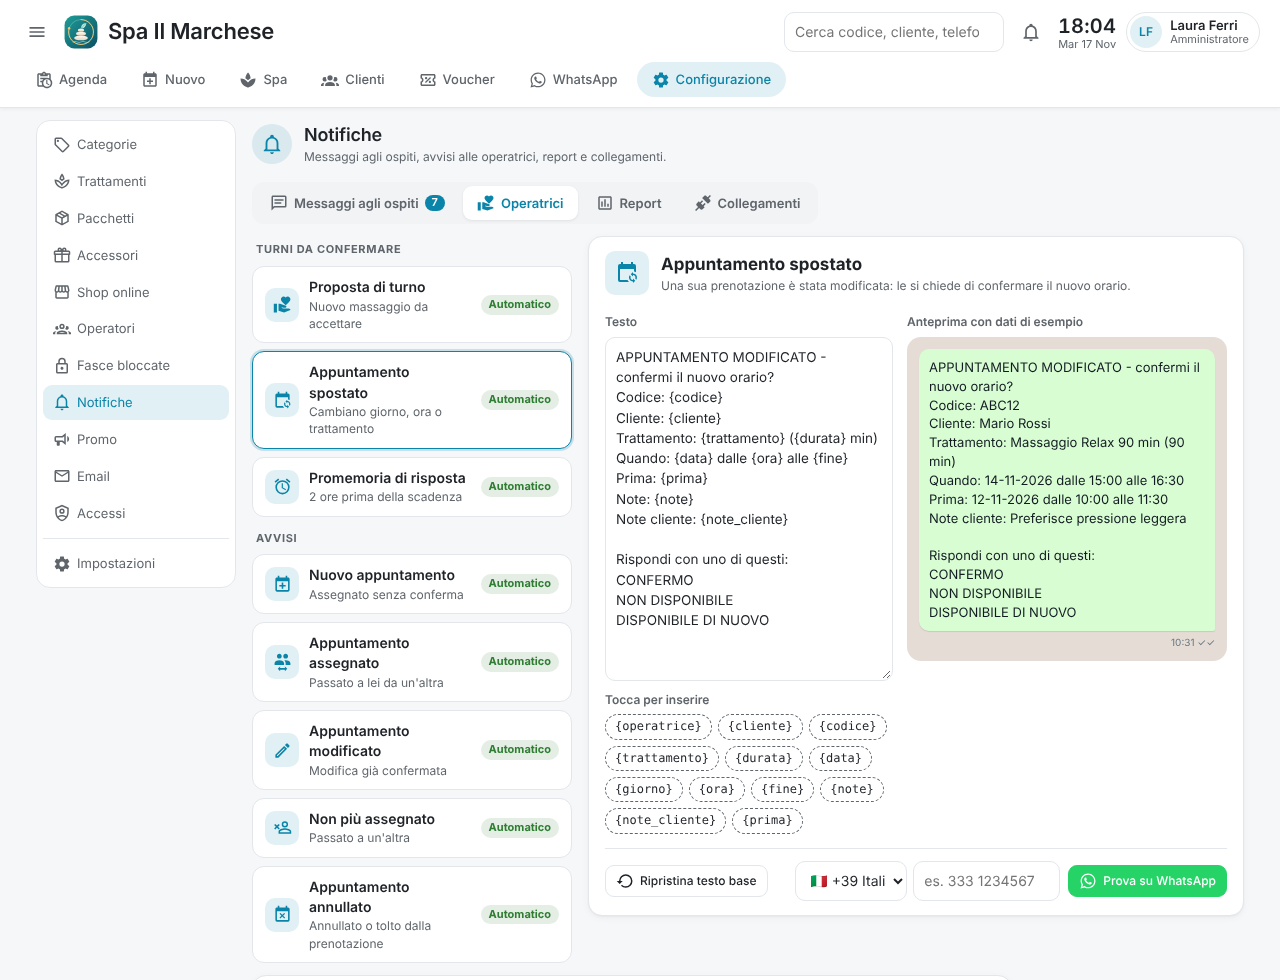
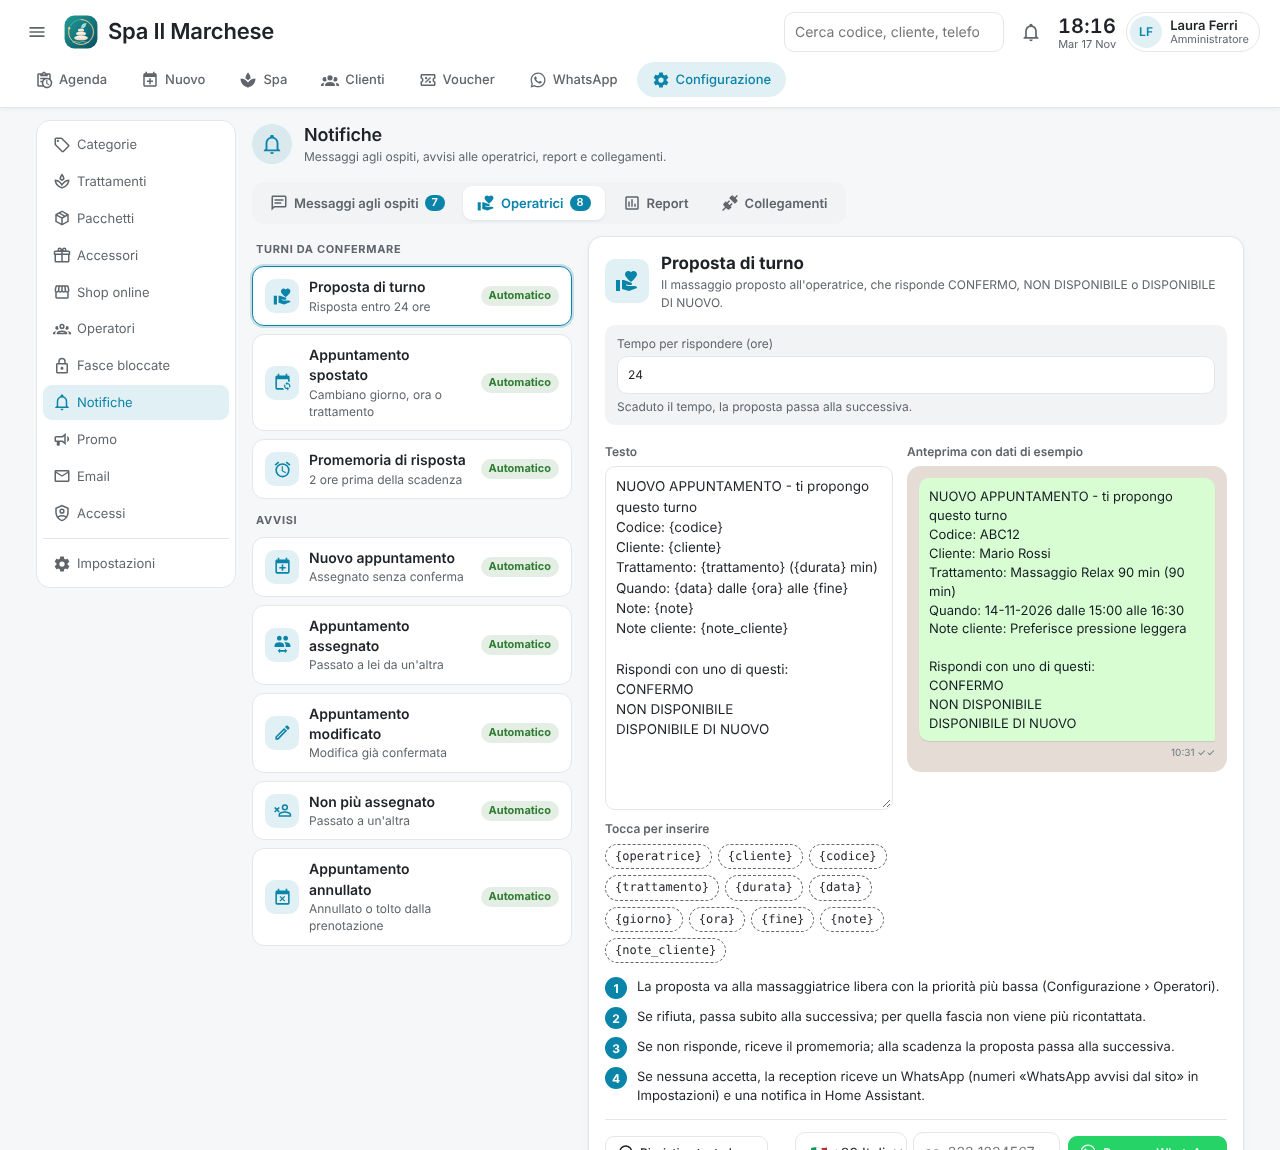
3.15.1: impostazioni delle offerte nei loro messaggi; bot Telegram più robusto (#84)
Il riquadro «Offerte alle massaggiatrici» passa dentro «Proposta di turno»
(tempo per rispondere e passi) e «Promemoria di risposta» (ore). Il bot
Telegram segna un errore solo dopo 3 letture fallite di fila (subito per
conflitto o token non valido), lo spiega in italiano, e la card ne
ricontrolla lo stato ogni 30 secondi.

Claude-Session: https://claude.ai/code/session_01GttFfEWm9aErteTXHjR7ex

diff --git a/custom_components/spa_booking/frontend/spa-booking-card.js b/custom_components/spa_booking/frontend/spa-booking-card.js
@@ -18,7 +18,7 @@
  */
 
 const DOMAIN = "spa_booking";
-const CARD_VERSION = "3.15.0";
+const CARD_VERSION = "3.15.1";
 
 // Window of the "Uscite" panel at the top of the agenda: it opens this many
 // minutes before an appointment ends and lingers this many minutes after,
@@ -206,17 +206,34 @@ const NOTIFY_MESSAGES = [
 const OP_CHIPS = [["{operatrice}", "Nome dell'operatrice"], ["{cliente}", "Nome e cognome del cliente"], ["{codice}", "Codice"],
   ["{trattamento}", "Trattamento"], ["{durata}", "Minuti"], ["{data}", "Giorno 14-11-2026"], ["{giorno}", "Giorno «sabato 14 novembre»"],
   ["{ora}", "Inizio"], ["{fine}", "Fine"], ["{note}", "Note dell'appuntamento"], ["{note_cliente}", "Note del cliente"]];
+// The offer settings sit in the messages they drive (3.15.1).
+const NOTIFY_HOURS = (draft, key, fallback, min, changed) => el("input", {
+  class: "input", type: "number", min: String(min), step: "1", value: draft[key] != null ? draft[key] : fallback,
+  on: { input: (event) => { draft[key] = event.target.value; changed(); } },
+});
 const OPERATOR_MESSAGES = [
   { id: "op_offer", group: "Turni da confermare", icon: "mdi:hand-heart", title: "Proposta di turno", key: "op_offer_message",
-    when: () => "Nuovo massaggio da accettare", auto: () => true,
-    description: "Il massaggio proposto all'operatrice, che risponde CONFERMO, NON DISPONIBILE o DISPONIBILE DI NUOVO.", chips: OP_CHIPS },
+    when: (draft) => `Risposta entro ${draft.offer_timeout_hours != null ? draft.offer_timeout_hours : 24} ore`, auto: () => true,
+    description: "Il massaggio proposto all'operatrice, che risponde CONFERMO, NON DISPONIBILE o DISPONIBILE DI NUOVO.", chips: OP_CHIPS,
+    options: (draft, changed) => [
+      NOTIFY_FIELD("Tempo per rispondere (ore)", NOTIFY_HOURS(draft, "offer_timeout_hours", 24, 1, changed),
+        "Scaduto il tempo, la proposta passa alla successiva."),
+    ],
+    after: () => el("div", { class: "nt-flow" },
+      el("div", { class: "nt-flow-step" }, el("b", {}, "1"), "La proposta va alla massaggiatrice libera con la priorità più bassa (Configurazione › Operatori)."),
+      el("div", { class: "nt-flow-step" }, el("b", {}, "2"), "Se rifiuta, passa subito alla successiva; per quella fascia non viene più ricontattata."),
+      el("div", { class: "nt-flow-step" }, el("b", {}, "3"), "Se non risponde, riceve il promemoria; alla scadenza la proposta passa alla successiva."),
+      el("div", { class: "nt-flow-step" }, el("b", {}, "4"), "Se nessuna accetta, la reception riceve un WhatsApp (numeri «WhatsApp avvisi dal sito» in Impostazioni) e una notifica in Home Assistant.")) },
   { id: "op_change_offer", group: "Turni da confermare", icon: "mdi:calendar-sync", title: "Appuntamento spostato", key: "op_change_offer_message",
     when: () => "Cambiano giorno, ora o trattamento", auto: () => true,
     description: "Una sua prenotazione è stata modificata: le si chiede di confermare il nuovo orario.",
     chips: [...OP_CHIPS, ["{prima}", "Giorno e ora di prima"]] },
   { id: "op_offer_reminder", group: "Turni da confermare", icon: "mdi:alarm", title: "Promemoria di risposta", key: "op_offer_reminder_message",
     when: (draft) => `${draft.offer_reminder_hours != null ? draft.offer_reminder_hours : 2} ore prima della scadenza`, auto: (draft) => Number(draft.offer_reminder_hours ?? 2) > 0,
-    description: "Se non ha ancora risposto alla proposta.", chips: [["{riepilogo}", "Cliente, trattamento, giorno e ora"], ...OP_CHIPS] },
+    description: "Se non ha ancora risposto alla proposta.", chips: [["{riepilogo}", "Cliente, trattamento, giorno e ora"], ...OP_CHIPS],
+    options: (draft, changed) => [
+      NOTIFY_FIELD("Ore prima della scadenza", NOTIFY_HOURS(draft, "offer_reminder_hours", 2, 0, changed), "0 = nessun promemoria."),
+    ] },
   { id: "op_new", group: "Avvisi", icon: "mdi:calendar-plus", title: "Nuovo appuntamento", key: "op_new_message",
     when: () => "Assegnato senza conferma", auto: () => true,
     description: "Quando un massaggio le viene assegnato direttamente, senza chiederle di accettarlo.", chips: OP_CHIPS },
@@ -17655,13 +17672,8 @@ class SpaBookingCard extends HTMLElement {
   }
 
   _notifyOperators(draft) {
-    const changed = () => this._notifySyncSave();
-    const number = (key, fallback, min) => el("input", {
-      class: "input", type: "number", min: String(min), step: "1",
-      value: draft[key] != null ? draft[key] : fallback,
-      on: { input: (event) => { draft[key] = event.target.value; changed(); } },
-    });
-    // The messages they receive (3.15.0): list and editor, as for the guests.
+    // The messages they receive (3.15.0): list and editor, as for the guests;
+    // the offer's hours live in «Proposta di turno» and «Promemoria» (3.15.1).
     const current = OPERATOR_MESSAGES.find((m) => m.id === this._notifyOpMsg) || OPERATOR_MESSAGES[0];
     const grid = el("div", { class: `nt-grid${this._notifyMsgOpen ? " open" : ""}` });
     const list = el("div", { class: "nt-list" });
@@ -17684,22 +17696,7 @@ class SpaBookingCard extends HTMLElement {
     });
     grid.appendChild(list);
     grid.appendChild(this._notifyEditor(current, draft));
-    return el("div", { class: "stack" }, grid, el("div", { class: "nt-panels" },
-      el("div", { class: "cfg-box nt-panel" },
-        el("div", { class: "nt-panel-head" },
-          el("span", { class: "nt-icon" }, el("ha-icon", { icon: "mdi:hand-heart" })),
-          el("div", {},
-            el("div", { class: "nt-ed-title" }, "Offerte alle massaggiatrici"),
-            el("div", { class: "dim small" }, "Come vengono proposti i massaggi a chi li fa."))),
-        el("div", { class: "nt-flow" },
-          el("div", { class: "nt-flow-step" }, el("b", {}, "1"), "La proposta va alla massaggiatrice libera con la priorità più bassa (Configurazione › Operatori)."),
-          el("div", { class: "nt-flow-step" }, el("b", {}, "2"), "Se rifiuta, passa subito alla successiva; per quella fascia non viene più ricontattata."),
-          el("div", { class: "nt-flow-step" }, el("b", {}, "3"), "Se non risponde, riceve un promemoria; alla scadenza la proposta passa alla successiva."),
-          el("div", { class: "nt-flow-step" }, el("b", {}, "4"), "Se nessuna accetta, la reception riceve un WhatsApp (numeri «WhatsApp avvisi dal sito» in Impostazioni) e una notifica in Home Assistant.")),
-        el("div", { class: "row" },
-          el("label", { class: "field" }, el("span", {}, "Tempo per rispondere (ore)"), number("offer_timeout_hours", 24, 1)),
-          el("label", { class: "field" }, el("span", {}, "Promemoria prima della scadenza (ore)"), number("offer_reminder_hours", 2, 0))),
-        el("div", { class: "hint" }, "Promemoria 0 = nessun promemoria."))));
+    return grid;
   }
 
   _notifyReport(draft) {
@@ -17767,7 +17764,9 @@ class SpaBookingCard extends HTMLElement {
    */
   _telegramBox(box, settings) {
     const status = this._tgStatus;
-    if (!status && !this._tgLoading) this._tgRefresh();
+    // Checked again every 30 s while the box is open (3.15.1), so a state
+    // read once does not stay on screen after the bot recovered.
+    if ((!status || Date.now() - (this._tgStamp || 0) > 30000) && !this._tgLoading) this._tgRefresh();
     const tokenInput = el("input", {
       class: "input", type: "password", autocomplete: "new-password",
       placeholder: settings.telegram_bot_token ? "•••••• token salvato" : "123456789:AA…",
@@ -17780,9 +17779,7 @@ class SpaBookingCard extends HTMLElement {
             el("ha-icon", { icon: status.ok ? "mdi:check-circle" : "mdi:alert-circle" }),
             el("span", {}, status.ok ? `Attivo · @${status.username}` : "Non raggiungibile"))
         : el("div", { class: "wa-state" }, el("ha-icon", { icon: "mdi:robot-off-outline" }), el("span", {}, "Nessun bot collegato")),
-      status && status.error ? el("div", { class: "hint" }, /409|Conflict/i.test(status.error)
-        ? "Un altro programma legge lo stesso bot (di solito l'integrazione Telegram di Home Assistant): rimuovila, oppure usa un bot diverso."
-        : status.error) : null,
+      status && status.error ? el("div", { class: "hint" }, status.error) : null,
       el("label", { class: "field" }, el("span", {}, "Token del bot (da @BotFather)"), tokenInput),
       el("div", { class: "row tight" },
         el("button", { class: "btn small primary", disabled: this._busy, on: { click: async () => {
@@ -17816,7 +17813,7 @@ class SpaBookingCard extends HTMLElement {
   async _tgRefresh() {
     if (this._tgLoading) return;
     this._tgLoading = true;
-    try { this._tgStatus = await this._service("telegram_status", {}); }
+    try { this._tgStatus = await this._service("telegram_status", {}); this._tgStamp = Date.now(); }
     catch (error) { this._tgStatus = { configured: false, ok: false, error: this._friendlyError(error, ""), recent: [] }; }
     finally { this._tgLoading = false; this._render(); }
   }

diff --git a/custom_components/spa_booking/telegram_native.py b/custom_components/spa_booking/telegram_native.py
@@ -34,8 +34,27 @@ API = "https://api.telegram.org/bot{token}/{method}"
 POLL_TIMEOUT = 25
 
 
+#: Failed polls in a row before the card shows the bot as not working
+#: (3.15.1): one slow answer or a network hiccup is retried, not an error.
+FAILURES_BEFORE_ERROR = 3
+
+
 class TelegramError(Exception):
     """Telegram answered an error, or could not be reached."""
+
+
+def explain(error: str) -> str:
+    """What a Telegram error means for the desk (3.15.1)."""
+    text = str(error or "")
+    if "Conflict" in text or "409" in text:
+        return ("Un altro programma sta leggendo lo stesso bot: di solito l'integrazione Telegram di "
+                "Home Assistant (Impostazioni › Dispositivi e servizi) o una seconda copia di Spa Booking "
+                "(es. Spa Booking Web). Toglila, oppure usa un bot diverso.")
+    if "Unauthorized" in text or "401" in text or "Not Found" in text or "404" in text:
+        return "Token non valido o bot eliminato: copia di nuovo il token da @BotFather."
+    if "Too Many Requests" in text or "429" in text:
+        return "Telegram chiede di rallentare: riprova tra qualche minuto."
+    return text
 
 
 class TelegramBot:
@@ -54,6 +73,7 @@ class TelegramBot:
         self._offset = 0
         self.me: dict[str, Any] = {}
         self.error = ""
+        self.failures = 0
         self.running = False
         #: The last chats that wrote to the bot: id, name, username.
         self.recent: deque[dict[str, Any]] = deque(maxlen=20)
@@ -124,13 +144,18 @@ class TelegramBot:
                     wait=POLL_TIMEOUT,
                 ) or []
                 self.error = ""
+                self.failures = 0
                 backoff = 5
             except asyncio.CancelledError:
                 raise
             except TelegramError as err:
                 # 409: another program reads the same bot (Home Assistant's
-                # Telegram integration): say so, and keep trying.
-                self.error = str(err)
+                # Telegram integration): say so, and keep trying. A network
+                # hiccup only counts after a few in a row (3.15.1).
+                self.failures += 1
+                text = str(err)
+                if self.failures >= FAILURES_BEFORE_ERROR or "Conflict" in text or "Unauthorized" in text:
+                    self.error = text
                 _LOGGER.debug("Telegram getUpdates: %s", err)
                 await asyncio.sleep(backoff)
                 backoff = min(backoff * 2, 120)
@@ -202,6 +227,6 @@ class TelegramBot:
             "ok": bool(self.me) and not self.error,
             "username": str(self.me.get("username") or ""),
             "name": str(self.me.get("first_name") or ""),
-            "error": self.error,
+            "error": explain(self.error),
             "recent": list(self.recent),
         }

diff --git a/tests/test_telegram_status.py b/tests/test_telegram_status.py
@@ -1,0 +1,60 @@
+"""3.15.1: the Telegram bot's state — hiccups are retried, errors explained."""
+
+from __future__ import annotations
+
+import asyncio
+
+from custom_components.spa_booking import telegram_native
+from custom_components.spa_booking.telegram_native import TelegramBot, TelegramError
+
+from .conftest import run
+
+
+class Hass:
+    pass
+
+
+def test_hiccups_are_not_an_error(monkeypatch) -> None:
+    bot = TelegramBot(Hass(), "123:abc", lambda data: None)
+    bot.me = {"username": "spa_bot"}
+    answers = [TelegramError("Telegram non raggiungibile: timeout")] * 2 + [[]]
+    calls = []
+
+    async def api(method, payload=None, wait=20):
+        calls.append(method)
+        answer = answers.pop(0)
+        if not answers:
+            bot.running = False
+        if isinstance(answer, Exception):
+            raise answer
+        return answer
+
+    async def no_sleep(seconds):
+        return None
+
+    monkeypatch.setattr(bot, "_api", api)
+    monkeypatch.setattr(asyncio, "sleep", no_sleep)
+    bot.running = True
+    run(bot._poll())
+    assert calls == ["getUpdates"] * 3
+    assert bot.error == "" and bot.failures == 0 and bot.status()["ok"]
+
+
+def test_conflict_is_explained_at_once(monkeypatch) -> None:
+    bot = TelegramBot(Hass(), "123:abc", lambda data: None)
+    bot.me = {"username": "spa_bot"}
+
+    async def api(method, payload=None, wait=20):
+        bot.running = False
+        raise TelegramError("Conflict: terminated by other getUpdates request")
+
+    async def no_sleep(seconds):
+        return None
+
+    monkeypatch.setattr(bot, "_api", api)
+    monkeypatch.setattr(asyncio, "sleep", no_sleep)
+    bot.running = True
+    run(bot._poll())
+    status = bot.status()
+    assert not status["ok"] and "Un altro programma" in status["error"]
+    assert "Token non valido" in telegram_native.explain("Unauthorized")

diff --git a/docs/GUIDA.md b/docs/GUIDA.md
@@ -601,7 +601,11 @@ con il numero). *Prova WhatsApp* manda un messaggio di prova.
 
 Le offerte arrivano con i pulsanti Accetto / Rifiuto. Un bot si legge da un
 solo programma: se era usato dall'integrazione Telegram di Home Assistant,
-rimuovila (la card lo segnala).
+rimuovila (la card lo segnala). Dalla 3.15.1 lo stato si aggiorna da solo
+ogni 30 secondi, un rallentamento della rete non viene più mostrato come
+errore, e l'errore dice cosa fare: *un altro programma legge lo stesso bot*
+(integrazione Telegram di Home Assistant o una seconda copia di Spa Booking,
+come Spa Booking Web), *token non valido*, *Telegram chiede di rallentare*.
 
 ![Collegamenti](anteprime/v3/v3-18-collegamenti.png)
 
@@ -708,8 +712,9 @@ giorni (es. tutto novembre chiuso tranne i sabati).
   `{durata}`, `{data}` (14-11-2026), `{giorno}` (sabato 14 novembre),
   `{ora}`, `{fine}`, `{note}`, `{note_cliente}`, `{prima}`, `{motivo}`,
   `{riepilogo}`. Una riga i cui segnaposto restano vuoti (per esempio
-  *Note:* senza note) non viene inviata. Sotto: tempo per rispondere
-  all'offerta e promemoria.
+  *Note:* senza note) non viene inviata. Il **tempo per rispondere** e i
+  passi della proposta sono in *Proposta di turno*, le ore del promemoria
+  in *Promemoria di risposta* (3.15.1).
 
   | | |
   |---|---|

diff --git a/README.md b/README.md
@@ -111,6 +111,14 @@ apri una pull request: `main` resta sempre installabile.
 
 ## Changelog
 
+- **v3.15.1** — (serve il riavvio di Home Assistant)
+  - Notifiche › Operatrici: il riquadro «Offerte alle massaggiatrici» non
+    c'è più in fondo; il tempo per rispondere e i passi della proposta sono in
+    «Proposta di turno», le ore del promemoria in «Promemoria di risposta».
+  - Bot Telegram: un rallentamento della rete (fino a 3 tentativi di fila)
+    non segna più il bot come «Non raggiungibile»; lo stato nella card si
+    aggiorna ogni 30 secondi; gli errori dicono cosa fare (altro programma
+    sullo stesso bot, token non valido, troppe richieste).
 - **v3.15.0** — (serve il riavvio di Home Assistant)
   - **Notifiche › Operatrici**: l'elenco dei messaggi che ricevono le
     operatrici — proposta di turno, appuntamento spostato, promemoria di
